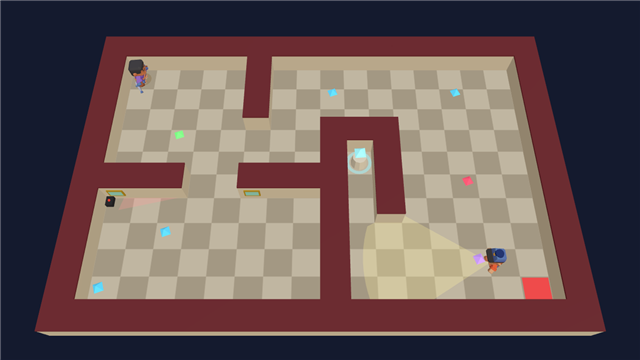
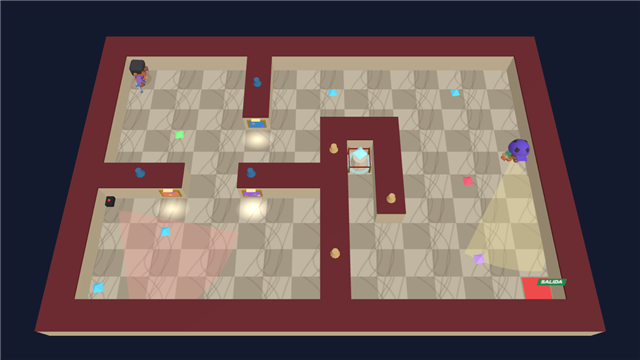
Gráficos: Ruta del Cartero con barrio de manzanas, árboles, laguna, plaza, calles con línea, casas variadas, correo con bandera, ruta animada y marcador; portadas nuevas de Defensa, Museo y Cartero

diff --git a/src/juegos/tablero/cartero.ts b/src/juegos/tablero/cartero.ts
@@ -65,18 +65,39 @@ export async function crear(c: Contexto): Promise<Partida> {
     lienzo.appendChild(e);
     return e;
   };
-  // Calles de fondo
+  // El barrio: manzanas con árboles y flores (una laguna y una plaza), y calles grises con línea al centro
+  const b = generador(`${c.semilla}|barrio`), laguna = [Math.floor(b() * 12), Math.floor(b() * 8)], plaza = [(laguna[0] + 6) % 12, (laguna[1] + 3) % 8];
+  for (let mx = 0; mx < 13; mx++) for (let my = 0; my < 8; my++) {
+    const x0 = (mx - 1) * 8 + 4.8, y0 = (my - 1) * 8 + 4.8 + 0;
+    if (mx === laguna[0] && my === laguna[1]) { forma('ellipse', { cx: x0 + 3.2, cy: y0 + 3.2, rx: 2.8, ry: 2.2, class: 'laguna' }); continue; }
+    if (mx === plaza[0] && my === plaza[1]) { forma('rect', { x: x0 + 0.4, y: y0 + 0.4, width: 5.6, height: 5.6, rx: 1, class: 'plaza' }); forma('circle', { cx: x0 + 3.2, cy: y0 + 3.2, r: 1.2, class: 'pileta' }); continue; }
+    for (let k = 0; k < 3; k++) { if (b() < 0.45) continue; const x = x0 + 0.9 + b() * 4.6, y = y0 + 0.9 + b() * 4.6; forma('circle', { cx: x + 0.25, cy: y + 0.35, r: 1.1, class: 'sombra-arbol' }); forma('circle', { cx: x, cy: y, r: 1.05, class: 'arbol' }); forma('circle', { cx: x - 0.3, cy: y - 0.3, r: 0.45, class: 'brillo' }); }
+    for (let k = 0; k < 2; k++) if (b() < 0.5) forma('circle', { cx: x0 + b() * 6.4, cy: y0 + b() * 6.4, r: 0.35, class: `flor f${Math.floor(b() * 3)}` });
+  }
   const calles: string[] = [];
   for (let x = 4; x < ANCHO; x += 8) calles.push(`M${x} 0 V${ALTO}`);
   for (let y = 4; y < ALTO; y += 8) calles.push(`M0 ${y} H${ANCHO}`);
   forma('path', { class: 'calles', d: calles.join(' ') });
-  const camino = forma('polyline', { class: 'camino', fill: 'none' }), vuelta = forma('polyline', { class: 'camino vuelta', fill: 'none' });
+  forma('path', { class: 'linea-calle', d: calles.join(' ') });
+  const borde = forma('polyline', { class: 'camino-borde', fill: 'none' }), camino = forma('polyline', { class: 'camino', fill: 'none' }), vuelta = forma('polyline', { class: 'camino vuelta', fill: 'none' });
+  // El cartero: un punto que marca dónde va (al final de la ruta)
+  const bici = forma('circle', { r: 1.5, class: 'bici' });
   const marcas = puntos.map((p, i) => {
     const g = forma('g', { class: i === 0 ? 'correo' : 'casa', transform: `translate(${p.x} ${p.y})`, tabindex: i === 0 ? -1 : 0, role: 'button', 'aria-label': i === 0 ? 'Correo' : `Casa ${i}` });
     const pieza = (tag: string, a: Record<string, string | number>, texto?: string) => { const e = document.createElementNS(SVG, tag); for (const [k, v] of Object.entries(a)) e.setAttribute(k, String(v)); if (texto) e.textContent = texto; g.appendChild(e); return e; };
     pieza('circle', { r: 6.5, class: 'zona' });
-    if (i === 0) { pieza('rect', { x: -4, y: -3, width: 8, height: 6, rx: 1, class: 'cuerpo' }); pieza('path', { d: 'M-4 -3 L0 0.6 L4 -3', class: 'sobre' }); }
-    else { pieza('rect', { x: -3.2, y: -1.2, width: 6.4, height: 4.6, class: 'cuerpo' }); pieza('path', { d: 'M-4.3 -1 L0 -4.8 L4.3 -1 Z', class: 'techo' }); }
+    if (i === 0) {
+      pieza('rect', { x: -4.6, y: -3.4, width: 9.2, height: 6.8, rx: 1, class: 'cuerpo' }); pieza('path', { d: 'M-4.6 -3.4 L0 0.6 L4.6 -3.4', class: 'sobre' });
+      pieza('path', { d: 'M3.6 -3.4 V-8.6', class: 'asta' }); pieza('path', { d: 'M3.6 -8.6 L7 -7.6 L3.6 -6.6 Z', class: 'banderin' });
+      pieza('text', { y: 5.6, class: 'rotulo' }, 'CORREO');
+    } else {
+      pieza('rect', { x: 1.6, y: -4.6, width: 1.1, height: 2.2, class: 'chimenea' });
+      pieza('rect', { x: -3.2, y: -1.2, width: 6.4, height: 4.6, class: 'cuerpo' });
+      pieza('path', { d: 'M-4.3 -1 L0 -4.8 L4.3 -1 Z', class: 'techo', style: `--techo: ${['#ef5565', '#3f8cff', '#8a5ad9', '#3fae6a', '#d9443a', '#2a9fd6'][i % 6]}` });
+      pieza('rect', { x: -0.7, y: 1.1, width: 1.4, height: 2.3, class: 'puerta' });
+      for (const x of [-2.5, 1.3]) pieza('rect', { x, y: 0, width: 1.2, height: 1.1, class: 'ventana' });
+      pieza('text', { x: 4.4, y: -2.4, class: 'listo' }, '✔');
+    }
     const numero = pieza('text', { y: 8.6, class: 'orden' });
     if (urgentes.includes(i)) { g.classList.add('urgente'); pieza('text', { y: -6.2, class: 'reloj' }, '⏰'); g.setAttribute('aria-label', `Casa ${i}, urgente`); }
     if (i > 0) { g.addEventListener('click', () => visitar(i)); g.addEventListener('keydown', (e) => { if ((e as KeyboardEvent).key === 'Enter' || (e as KeyboardEvent).key === ' ') { e.preventDefault(); visitar(i); } }); }
@@ -90,6 +111,9 @@ export async function crear(c: Contexto): Promise<Partida> {
   const pintar = () => {
     const texto = (lista: P[]) => porCalles(lista).map((p) => `${p.x},${p.y}`).join(' ');
     camino.setAttribute('points', texto([0, ...ruta].map((i) => puntos[i])));
+    borde.setAttribute('points', camino.getAttribute('points')!);
+    const fin = puntos[ruta[ruta.length - 1] ?? 0];
+    bici.setAttribute('cx', String(fin.x + 4.6)); bici.setAttribute('cy', String(fin.y + 3.2));
     const completa = ruta.length === casas, ultima = puntos[ruta[ruta.length - 1] ?? 0];
     vuelta.setAttribute('points', texto([ultima, puntos[0]]));
     vuelta.style.display = completa ? '' : 'none';

diff --git a/src/estilos.css b/src/estilos.css
@@ -250,13 +250,16 @@ body.foto .mesa { padding: 10px; }
 .luz.encendida { background: radial-gradient(circle at 40% 35%, #fff7c2, #ffd23c 60%, #f0a020); box-shadow: 0 0 18px #ffd23c; border-color: #b8860b; }
 
 .mapa { width: 100%; height: auto; border-radius: 12px; background: #9fd88a; touch-action: manipulation; }
-.mapa .camino { stroke: #8a5a38; stroke-width: 1.2; stroke-linejoin: round; stroke-linecap: round; }
-.mapa .camino.vuelta { stroke-dasharray: 2 1.6; }
+.mapa .camino { stroke: #e8722a; stroke-width: 1.3; stroke-linejoin: round; stroke-linecap: round; stroke-dasharray: 2.4 1.2; animation: ruta-avanza 1s linear infinite; }
+.mapa .camino-borde { stroke: #ffffff; stroke-width: 2.4; stroke-linejoin: round; stroke-linecap: round; opacity: .85; }
+@keyframes ruta-avanza { to { stroke-dashoffset: -3.6; } }
+@media (prefers-reduced-motion: reduce) { .mapa .camino { animation: none; } }
+.mapa .camino.vuelta { stroke: #8a5a38; stroke-dasharray: 1 1.4; animation: none; }
 .mapa .zona { fill: transparent; }
 .mapa .casa, .mapa .correo { cursor: pointer; }
 .mapa .correo { cursor: default; }
 .mapa .cuerpo { fill: #fff8e6; stroke: #5a4a3a; stroke-width: .5; }
-.mapa .techo { fill: #ef5565; stroke: #5a4a3a; stroke-width: .5; }
+.mapa .techo { fill: var(--techo, #ef5565); stroke: #5a4a3a; stroke-width: .5; }
 .mapa .correo .cuerpo { fill: #ffd23c; }
 .mapa .sobre { fill: none; stroke: #5a4a3a; stroke-width: .5; }
 .mapa .casa.visitada .techo { fill: #3f8cff; }
@@ -452,7 +455,17 @@ body.daltonico { --alga: #56b4e9; --sangre: #e69f00; }
 .voltorb .pista.esquina { background: none; }
 
 /* Ruta del Cartero: calles y casas urgentes */
-.mapa .calles { stroke: #c9e8b4; stroke-width: 1.6; fill: none; }
+.mapa .calles { stroke: #c9ccd1; stroke-width: 1.7; fill: none; }
+.mapa .linea-calle { stroke: #ffffff; stroke-width: .14; stroke-dasharray: .8 .8; fill: none; opacity: .8; }
+.mapa .arbol { fill: #3f9a4a; } .mapa .brillo { fill: #6cc85a; } .mapa .sombra-arbol { fill: rgba(0, 40, 0, .18); }
+.mapa .flor { opacity: .9; } .mapa .flor.f0 { fill: #ff7ab8; } .mapa .flor.f1 { fill: #ffd23c; } .mapa .flor.f2 { fill: #ffffff; }
+.mapa .laguna { fill: #5ac8ec; stroke: #3fa0c8; stroke-width: .3; } .mapa .plaza { fill: #e8dcc0; } .mapa .pileta { fill: #9fe0ff; stroke: #c9b89a; stroke-width: .4; }
+.mapa .chimenea { fill: #a0503a; } .mapa .puerta { fill: #8a5a38; } .mapa .ventana { fill: #9fe0ff; stroke: #5a4a3a; stroke-width: .25; }
+.mapa .asta { stroke: #5a4a3a; stroke-width: .4; } .mapa .banderin { fill: #ef5565; } .mapa .rotulo { font: 800 2.2px var(--cuerpo); fill: var(--noche); text-anchor: middle; }
+.mapa .listo { font-size: 3px; fill: #1f8a4c; display: none; } .mapa .visitada .listo { display: inline; }
+.mapa .bici { fill: #e8722a; stroke: #ffffff; stroke-width: .6; pointer-events: none; animation: urgente 1.2s ease-in-out infinite; transform-box: fill-box; transform-origin: center; }
+.mapa .urgente .reloj { animation: urgente 1s ease-in-out infinite; transform-box: fill-box; transform-origin: center; }
+@keyframes urgente { 50% { transform: scale(1.25); } }
 .mapa .urgente .techo { fill: #ff9a2e; }
 .mapa .reloj { font-size: 4.2px; text-anchor: middle; }
 
